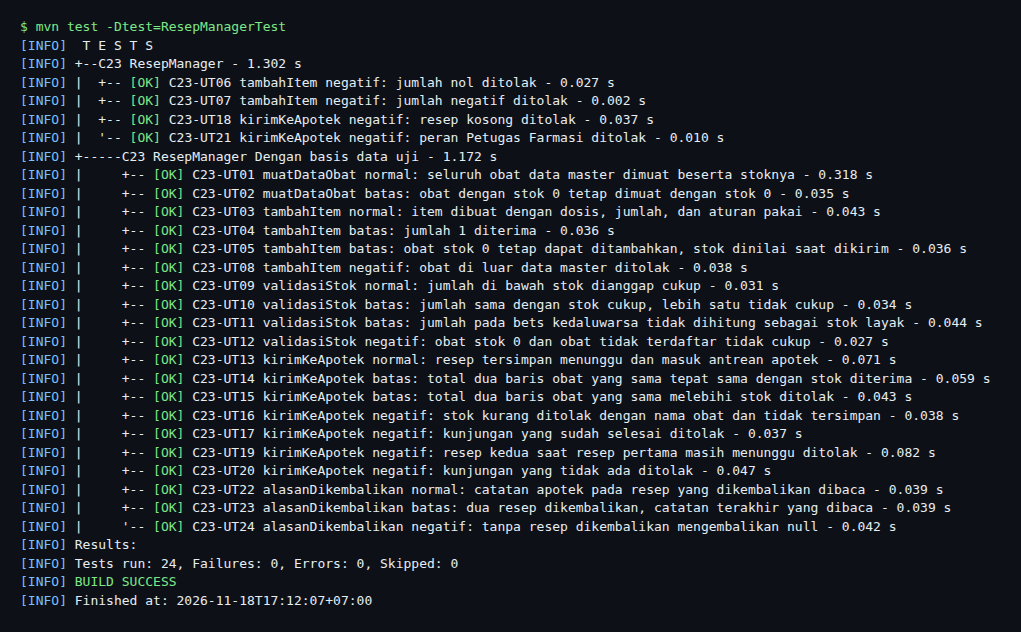
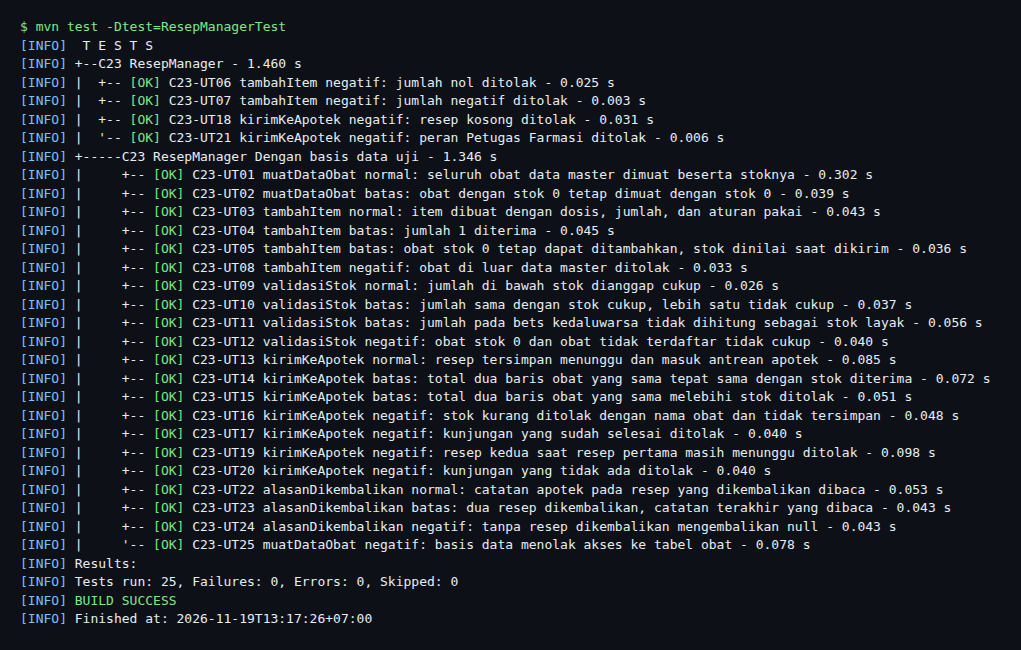
docs(m10): catat C23-UT25 pada HIUPL, logbook, dan AI-Usage

Changed region(s): [[0.0, 0.0301, 0.9716, 0.962]]

diff --git a/docs/M10/K02_G09_HIUPL.md b/docs/M10/K02_G09_HIUPL.md
@@ -370,7 +370,7 @@ Tabel 4.1.1. Identifikasi Tingkat Pengujian Kelas
 | C20 | SkriningManager | Mendalam | Validasi rentang fisiologis tanpa jalan pintas dan alur antrean skrining (Algo-C20-01 s.d. Algo-C20-03) | *[C20-UT01 s.d. C20-UT.., diisi Humam]* |
 | C21 | RisikoManager | Mendalam | Perhitungan risiko terhadap ambang dan riwayat tiga kunjungan (Algo-C21-01, Algo-C21-02) | *[C21-UT01 s.d. C21-UT.., diisi Humam]* |
 | C22 | PemeriksaanManager | Mendalam | Validasi diagnosis ICD-10 dan tanggal kontrol, pembatasan peran Dokter, serta transaksi penguncian rekam medis (Algo-C22-01, Algo-C22-02) | C22-UT01 s.d. C22-UT37, INT-TC17 s.d. INT-TC20 |
-| C23 | ResepManager | Mendalam | Validasi kecukupan stok per obat (termasuk bets kedaluwarsa) dan transaksi pengiriman resep (Algo-C23-01, Algo-C23-02) | C23-UT01 s.d. C23-UT24, INT-TC21, INT-TC22 |
+| C23 | ResepManager | Mendalam | Validasi kecukupan stok per obat (termasuk bets kedaluwarsa) dan transaksi pengiriman resep (Algo-C23-01, Algo-C23-02) | C23-UT01 s.d. C23-UT25, INT-TC21, INT-TC22 |
 | C24 | ApotekManager | Mendalam | Transaksi penyerahan obat: potong stok FEFO, tutup kunjungan, dan susun bundel FHIR (Algo-C24-01, Algo-C24-02) | *[C24-UT01 s.d. C24-UT.., diisi Malik]* |
 | C25 | PersediaanManager | Mendalam | Validasi penerimaan obat, penambahan stok, dan peringatan stok serta kedaluwarsa (Algo-C25-01 s.d. Algo-C25-03) | *[C25-UT01 s.d. C25-UT.., diisi Malik]* |
 | C26 | PantauManager | Mendalam | Penyaringan daftar pantau dan perubahan status tindak lanjut (Algo-C26-01) | *[C26-UT01 s.d. C26-UT.., diisi Humam]* |
@@ -554,6 +554,7 @@ Tabel 4.2.8. Hasil Pengujian Unit Kelas C23
 | :--- | :--- | :--- | :--- | :--- | :--- | :--- |
 | C23-UT01 | `muatDataObat(): List<ObatEntity>` | Normal | Panggil tanpa masukan | Seluruh obat data master dimuat beserta stoknya | Jumlah obat sama dengan `count(*)` tabel `obat`, Parasetamol berstok 300 | Pass |
 | C23-UT02 | `muatDataObat(): List<ObatEntity>` | Batas | Obat dengan stok 0 (Asam Mefenamat) | Tetap dimuat dengan stok 0 agar dokter melihat stok habis | Dimuat dengan stok 0 | Pass |
+| C23-UT25 | `muatDataObat(): List<ObatEntity>` | Negatif | Hak baca tabel `obat` untuk akun aplikasi `sehati_app` dicabut sementara oleh akun pemilik, lalu dipulihkan setelah pemanggilan | Pemuatan ditolak dengan `IllegalStateException`, tanpa mengembalikan daftar kosong yang menyesatkan. Setelah hak baca dipulihkan, data obat kembali termuat | `IllegalStateException` "Gagal mengambil data obat" dari `DataFarmasiBoundary`, lalu pemanggilan berikutnya mengembalikan daftar obat | Pass |
 | C23-UT03 | `tambahItem(idObat: int, jumlah: int, dosis: String, aturanPakai: String): ItemResepEntity` | Normal | Obat 1, jumlah 5, "500 mg", "3 x 1 sesudah makan" | Item dengan obat, jumlah, dosis, dan aturan pakai yang sama | Keempat nilai sesuai | Pass |
 | C23-UT04 | `tambahItem(idObat: int, jumlah: int, dosis: String, aturanPakai: String): ItemResepEntity` | Batas | Jumlah 1 | Diterima | Item berjumlah 1 | Pass |
 | C23-UT05 | `tambahItem(idObat: int, jumlah: int, dosis: String, aturanPakai: String): ItemResepEntity` | Batas | Obat 12 (stok 0), jumlah 1 | Item tetap dibuat, karena kecukupan stok dinilai ResepForm dan diperiksa ulang `kirimKeApotek()` | Item untuk obat 12 dibuat | Pass |
@@ -577,14 +578,14 @@ Tabel 4.2.8. Hasil Pengujian Unit Kelas C23
 | C23-UT23 | `alasanDikembalikan(idKunjungan: int): String` | Batas | Dua resep "dikembalikan" dengan catatan berbeda | Catatan resep terakhir | "Catatan kedua" | Pass |
 | C23-UT24 | `alasanDikembalikan(idKunjungan: int): String` | Negatif | Hanya ada resep "menunggu" | `null` | `null` | Pass |
 
-`muatDataObat()` tidak menerima masukan, sehingga hanya punya kasus normal dan batas. Kasus negatifnya (basis data tidak dapat dihubungi) tidak dapat dipicu tanpa mengubah konfigurasi koneksi, yang dibaca sekali saat kelas `KoneksiBasisData` dimuat. `validasiStok()` bervisibilitas private pada DPPL dan package-private pada implementasi (Tabel B.1 nomor 56), lalu diuji langsung karena memuat inti Algo-C23-01. `alasanDikembalikan()` adalah operasi public tambahan (Tabel B.1 nomor 70).
+`muatDataObat()` tidak menerima masukan, jadi kasus negatifnya (C23-UT25) adalah basis data yang menolak akses. Kasus ini ditambahkan setelah nomor C23-UT24 sehingga barisnya diletakkan bersama operasi yang sama. `validasiStok()` bervisibilitas private pada DPPL dan package-private pada implementasi (Tabel B.1 nomor 56), lalu diuji langsung karena memuat inti Algo-C23-01. `alasanDikembalikan()` adalah operasi public tambahan (Tabel B.1 nomor 70).
 
 Tabel 4.2.8b. Ringkasan Cakupan Kelas C23
 
 | Informasi | Keterangan |
 | :--- | :--- |
 | Daftar operasi public pada DPPL | `muatDataObat()`, `tambahItem()`, `kirimKeApotek()` (ditambah `validasiStok()` yang private) |
-| Operasi yang diuji | Ketiga operasi public DPPL (3 dari 3), `validasiStok()`, dan operasi tambahan `alasanDikembalikan()` |
+| Operasi yang diuji | Ketiga operasi public DPPL (3 dari 3) masing-masing dengan kasus normal, batas, dan negatif, `validasiStok()`, dan operasi tambahan `alasanDikembalikan()` |
 | ID Algoritma yang tercakup | Algo-C23-01 (penambahan item dan pemeriksaan stok: C23-UT03 s.d. C23-UT12), Algo-C23-02 (pengiriman resep ke apotek: C23-UT13 s.d. C23-UT21) |
 | Coverage (wajib ≥ 70%) | 85,5% baris (59 dari 69) dan 95,8% cabang (23 dari 24), JaCoCo 0.8.14 dari seluruh `mvn test`. Bukti pada Subbab 4.6 |
 
@@ -1211,7 +1212,7 @@ Tabel 4.6. Bukti Hasil Pengujian
 | C22-UT01 – C22-UT37 | Keluaran `mvn test -Dtest=PemeriksaanManagerTest` setelah perbaikan: 37 test `[OK]`<br><img src="./assets/pemeriksaan/c22-unit.png" width="100%"> |
 | C22-UT37 (`v9.0`, Fail) | Test yang sama pada kode `v9.0`: C22-UT37 `[XX]`, `expected: <7> but was: <8>`<br><img src="./assets/pemeriksaan/c22-ut37-fail-v9.png" width="100%"> |
 | C22 (coverage) | Total 20 dari 125 baris dan 4 dari 46 cabang terlewat<br><img src="./assets/pemeriksaan/c22-coverage.png" width="100%"> |
-| C23-UT01 – C23-UT24 | Keluaran `mvn test -Dtest=ResepManagerTest`: 24 test `[OK]`<br><img src="./assets/pemeriksaan/c23-unit.png" width="100%"> |
+| C23-UT01 – C23-UT25 | Keluaran `mvn test -Dtest=ResepManagerTest`: 25 test `[OK]`<br><img src="./assets/pemeriksaan/c23-unit.png" width="100%"> |
 | C23 (coverage) | Total 10 dari 69 baris dan 1 dari 24 cabang terlewat<br><img src="./assets/pemeriksaan/c23-coverage.png" width="100%"> |
 | C42-UT01 – C42-UT03, C44-UT01 – C44-UT05, C45-UT01 – C45-UT03 | Keluaran `mvn test -Dtest=EntityPemeriksaanTest`. Baris berawalan "Pendukung" bukan milik kelas bertingkat Mendalam/Sedang modul ini<br><img src="./assets/pemeriksaan/c42-c44-c45-unit.png" width="100%"> |
 | C42 (coverage) | Total 2 dari 28 baris terlewat, cabang 100%<br><img src="./assets/pemeriksaan/c42-coverage.png" width="100%"> |
@@ -1259,7 +1260,7 @@ Tabel 5.1. Matriks Kerunutan KF terhadap Implementasi dan Pengujian
 | KF08 | - | UC05 | C06 - RekamMedisForm<br>C22 - PemeriksaanManager<br>C39 - TandaVitalEntity<br>C59 - DataKlinisBoundary | `presentation/RekamMedisForm.java`<br>`business/control/PemeriksaanManager.java` | UC05-TC02, UC05-TC07 | C22-UT04 s.d. C22-UT06 |
 | KF09 | - | UC05 | C06 - RekamMedisForm<br>C22 - PemeriksaanManager<br>C34 - RekamMedisEntity<br>C57 - DataPasienBoundary<br>C59 - DataKlinisBoundary | `presentation/RekamMedisForm.java`<br>`business/control/PemeriksaanManager.java`<br>`dataaccess/DataPasienBoundary.java` | UC05-TC01 (Fail pada `v9.0`, Pass setelah perbaikan) | C22-UT01 s.d. C22-UT03, C22-UT35, C22-UT36, INT-TC17 |
 | KF10 | KNF05 | UC05 | C07 - PemeriksaanForm<br>C22 - PemeriksaanManager<br>C42 - PemeriksaanEntity<br>C43 - DiagnosisEntity<br>C44 - KodeICD10Entity<br>C59 - DataKlinisBoundary | `presentation/PemeriksaanForm.java`<br>`business/control/PemeriksaanManager.java`<br>`business/entity/KodeICD10Entity.java`<br>`dataaccess/DataKlinisBoundary.java` | UC05-TC03, UC05-TC04, UC05-TC05 | C22-UT07 s.d. C22-UT15, C22-UT20 s.d. C22-UT27, C22-UT31 s.d. C22-UT34, C42-UT01 s.d. C42-UT03, C44-UT01 s.d. C44-UT05, C59-UT21 s.d. C59-UT27, INT-TC17 s.d. INT-TC20 |
-| KF11 | - | UC06 | C08 - ResepForm<br>C23 - ResepManager<br>C46 - ResepEntity<br>C47 - ItemResepEntity<br>C48 - ObatEntity<br>C61 - DataFarmasiBoundary | `presentation/ResepForm.java`<br>`business/control/ResepManager.java`<br>`business/entity/ResepEntity.java`<br>`dataaccess/DataFarmasiBoundary.java` | UC06-TC01, UC06-TC02 | C23-UT01 s.d. C23-UT24, C46-UT01 s.d. C46-UT04, C47-UT01 s.d. C47-UT03, INT-TC21, INT-TC22 |
+| KF11 | - | UC06 | C08 - ResepForm<br>C23 - ResepManager<br>C46 - ResepEntity<br>C47 - ItemResepEntity<br>C48 - ObatEntity<br>C61 - DataFarmasiBoundary | `presentation/ResepForm.java`<br>`business/control/ResepManager.java`<br>`business/entity/ResepEntity.java`<br>`dataaccess/DataFarmasiBoundary.java` | UC06-TC01, UC06-TC02 | C23-UT01 s.d. C23-UT25, C46-UT01 s.d. C46-UT04, C47-UT01 s.d. C47-UT03, INT-TC21, INT-TC22 |
 | KF12 | - | UC05<br>UC09 | C07 - PemeriksaanForm<br>C22 - PemeriksaanManager<br>C45 - JadwalKontrolEntity<br>C21 - RisikoManager<br>C26 - PantauManager<br>C51 - DaftarPantauEntity<br>C59 - DataKlinisBoundary<br>C60 - DataPantauBoundary | `presentation/PemeriksaanForm.java`<br>`business/control/PemeriksaanManager.java`<br>`business/control/RisikoManager.java`<br>`dataaccess/DataKlinisBoundary.java` | UC05-TC03, UC05-TC08 (Fail pada `v9.0`, Pass setelah perbaikan); *[UC09-TC.., diisi Humam]* | C22-UT16 s.d. C22-UT19, C22-UT23, C22-UT28 s.d. C22-UT30, C22-UT37 (Fail pada `v9.0`, Pass setelah perbaikan), C45-UT01 s.d. C45-UT03, C59-UT28 s.d. C59-UT32, INT-TC19; *[C21-UT.., C26-UT.., INT-TC15, INT-TC16; diisi Humam]* |
 | KF13 | - | UC07 | C09 - AntreanResepForm<br>C10 - PenyerahanObatForm<br>C24 - ApotekManager<br>C46 - ResepEntity<br>C61 - DataFarmasiBoundary | `presentation/AntreanResepForm.java`<br>`presentation/PenyerahanObatForm.java`<br>`business/control/ApotekManager.java` | *[UC07-TC.., diisi Malik]* | C46-UT01 s.d. C46-UT04; *[C24-UT.., INT-TC23, INT-TC24; diisi Malik]* |
 | KF14 | KNF03<br>KNF07 | UC07 | C10 - PenyerahanObatForm<br>C24 - ApotekManager<br>C48 - ObatEntity<br>C49 - BetsObatEntity<br>C54 - BundelFHIREntity<br>C61 - DataFarmasiBoundary<br>C63 - DataSinkronisasiBoundary | `business/control/ApotekManager.java`<br>`business/control/PenyusunBundelFHIR.java`<br>`dataaccess/DataFarmasiBoundary.java` | *[UC07-TC.., diisi Malik]* | C22-UT20, INT-TC19 (bundel kunjungan tanpa resep); *[C24-UT.., C48-UT.., C49-UT.., INT-TC23, INT-TC24, KNF03-TC01, KNF07-TC01; diisi Malik dan Fachry]* |

diff --git a/docs/K02_G09_AI-Usage.md b/docs/K02_G09_AI-Usage.md
@@ -133,7 +133,7 @@ Silakan catat penggunaan AI yang berdampak signifikan pada pengerjaan tugas (mis
 | :--- | :--- | :--- | :--- |
 | *Claude (Claude Code)* | *Menyusun pembagian tugas M10 dari slide dan transkrip asistensi akbar, lalu kerangka HIUPL: BAB 1 sampai BAB 3, Tabel 4.1.1, daftar antarmuka integrasi, dan BAB 5* | *"tolong buat pembagian tugasnya dulu buat tiap orang. abis itu bagian gua tolong di kerjain dengan baik tanpa ada commit lu"* | *Adnan mempertahankan pembagian per modul Tugas 9, memutuskan alur PR langsung ke main, dan menyimpan dokumen pembagian di luar repo untuk dibagikan ke grup. Klaim pada BAB 1 sampai BAB 3 dicocokkan dengan SKPL, DPPL, Laporan Implementasi, dan isi repo; satu klaim keliru pada BAB 2 (SATUSEHAT belum tergambar sebagai sistem eksternal) diperbaiki dengan menggambar ulang use case diagram.* |
 | *Claude (Claude Code)* | *Menguji modul pemeriksaan dan resep: test unit ber-ID untuk C22, C23, C42, C44 sampai C47, dan C59 bagian pemeriksaan, test integrasi INT-TC17 sampai INT-TC22, serta skrip yang menjalankan UC05 dan UC06 di aplikasi untuk mengambil tangkapan layar* | *"bagian gua tolong di kerjain dengan baik"* | *Seluruh test dijalankan pada basis data uji dari schema.sql dan seed.sql, isi basis data setelah pengujian UI diperiksa lewat psql, dan coverage diukur dengan JaCoCo. Pengujian menemukan dua Fail pada v9.0 (UC05-TC01 dan C22-UT37/UC05-TC08) yang dicatat apa adanya.* |
-| *Claude (Claude Code)* | *Memperbaiki dua temuan Fail: kueri Q-C59-20 agar jadwal kontrol tidak ganda dan panel skrining hari ini pada I-06* | *"oke gas benerin dua dua nya"* | *Adnan memutuskan temuan diperbaiki dengan jejak Fail pada v9.0 tetap dicatat di HIUPL. C22-UT37, UC05-TC01, dan UC05-TC08 diuji ulang dan lulus, 392 test lulus, dan CI GitHub Actions pada PR #65 lulus.* |
+| *Claude (Claude Code)* | *Memperbaiki dua temuan Fail: kueri Q-C59-20 agar jadwal kontrol tidak ganda dan panel skrining hari ini pada I-06* | *"oke gas benerin dua dua nya"* | *Adnan memutuskan temuan diperbaiki dengan jejak Fail pada v9.0 tetap dicatat di HIUPL. C22-UT37, UC05-TC01, dan UC05-TC08 diuji ulang dan lulus, 393 test lulus, dan CI GitHub Actions pada PR #65 lulus.* |
 
 ---
 

diff --git a/docs/K02_G09_Logbook.md b/docs/K02_G09_Logbook.md
@@ -292,7 +292,7 @@
 | :--- | :--- | :--- | :--- | :--- | :--- |
 | *17-11-2026* | *[Seluruh Anggota]* | *Asistensi akbar Milestone 10: isi HIUPL, tingkat kedalaman pengujian kelas (Mendalam, Sedang, Tidak perlu), coverage minimal 70% untuk kelas Mendalam, pengujian integrasi tanpa mock, pengujian use case dan KNF, serta bukti pengujian* | *1* | *Done* | *-* |
 | *18-11-2026* | *Muhammad Adnan Kurniawan* | *Menyusun pembagian tugas M10, kerangka HIUPL (BAB 1 sampai BAB 3, Tabel 4.1.1, daftar antarmuka integrasi, dan BAB 5), serta memasang JaCoCo dan pelapor test berbasis ID pada pom.xml* | *3* | *Done* | *-* |
-| *18-11-2026* | *Muhammad Adnan Kurniawan* | *Menguji modul pemeriksaan dan resep: 89 test unit ber-ID untuk C22, C23, C42, C44 sampai C47, dan C59 bagian pemeriksaan, integrasi INT-TC17 sampai INT-TC22, serta UC05 dan UC06 beserta tangkapan layar* | *4* | *Done* | *Dua temuan Fail di modul sendiri: hasil skrining hari ini tidak tampil di I-06 (UC05-TC01) dan jadwal kontrol dapat dibuat ganda (C22-UT37, UC05-TC08)* |
+| *18-11-2026* | *Muhammad Adnan Kurniawan* | *Menguji modul pemeriksaan dan resep: 92 test unit ber-ID untuk C22, C23, C42, C44 sampai C47, dan C59 bagian pemeriksaan, integrasi INT-TC17 sampai INT-TC22, serta UC05 dan UC06 beserta tangkapan layar* | *4* | *Done* | *Dua temuan Fail di modul sendiri: hasil skrining hari ini tidak tampil di I-06 (UC05-TC01) dan jadwal kontrol dapat dibuat ganda (C22-UT37, UC05-TC08)* |
 | *18-11-2026* | *Muhammad Adnan Kurniawan* | *Memperbaiki dua temuan pengujian: kueri Q-C59-20 agar jadwal kontrol tidak ganda dan panel skrining hari ini pada I-06, lalu menguji ulang C22-UT37, UC05-TC01, dan UC05-TC08* | *2* | *Done* | *-* |
 
 **Catatan/Evaluasi Milestone 10:**
